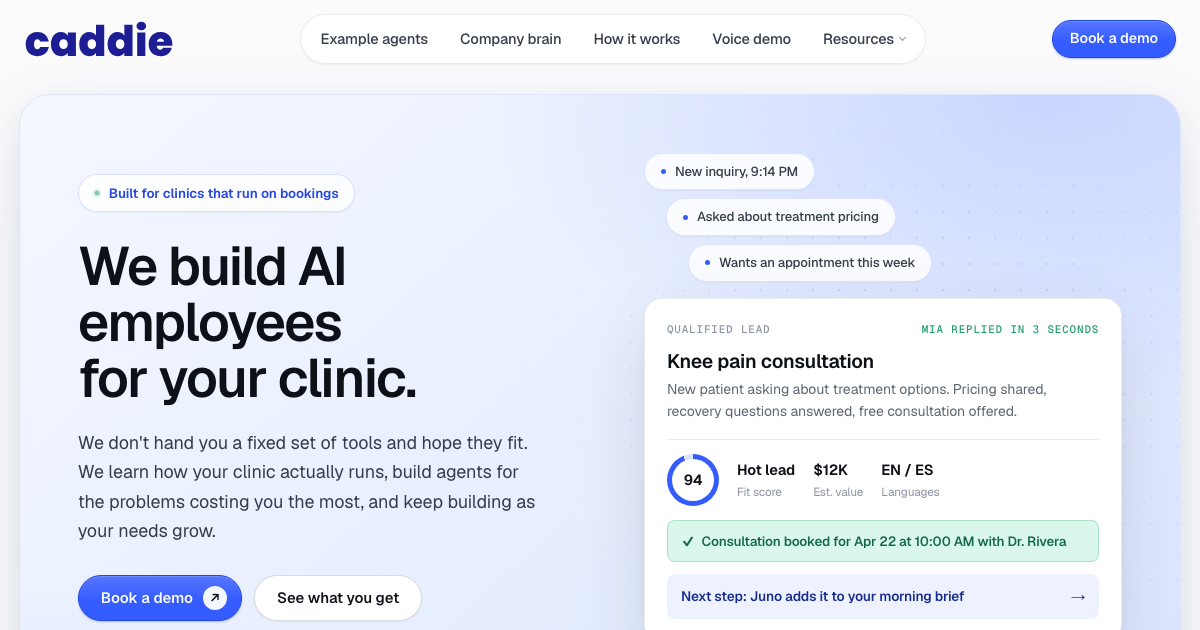
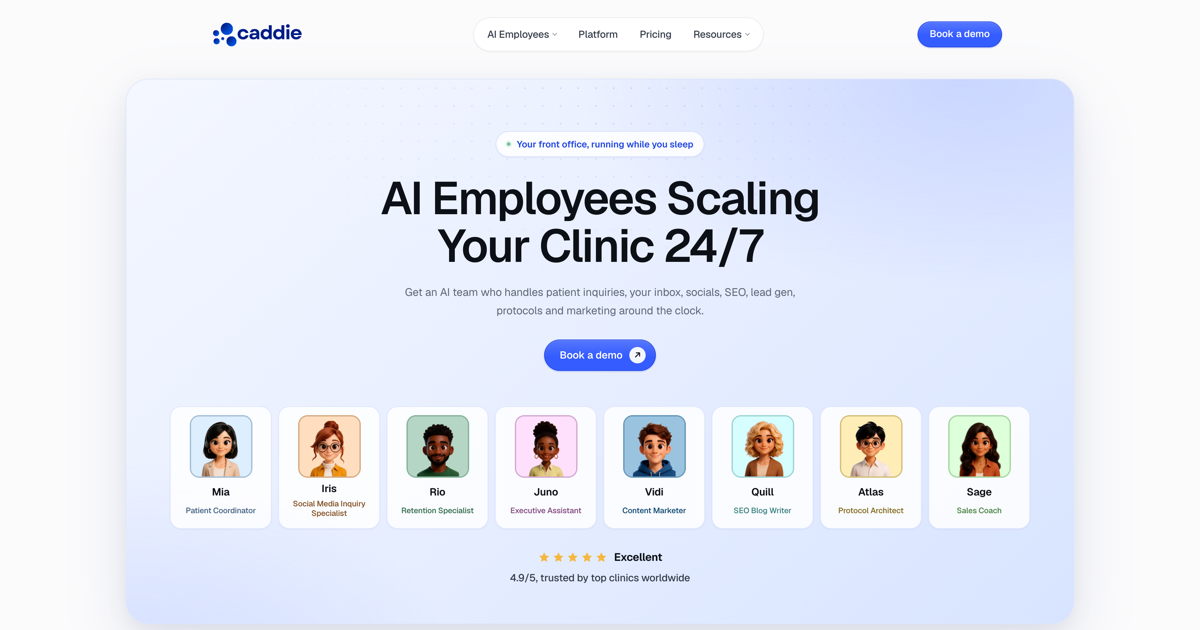
Refresh the social share card and fix its metadata
- Recapture opengraph-image.png and twitter-image.png from the current
  homepage hero; the old pair still showed the pre-relaunch landing page.
  Captured wide and downscaled to 1200x630 so the whole hero (employee
  lineup and rating) fits, with the chat widget and dev overlay hidden.
- Set metadataBase. Without it Next resolved the image against localhost,
  so shared links rendered with no preview image at all.
- Declare openGraph and twitter metadata explicitly (title, description,
  url, site name, summary_large_image) rather than leaving crawlers to
  infer them.

diff --git a/app/layout.tsx b/app/layout.tsx
@@ -27,10 +27,29 @@ const geistMono = Geist_Mono({
   variable: "--font-geist-mono",
 });
 
+const SITE_URL = "https://caddie.app";
+const TITLE = "Caddie | AI Employees Scaling Your Clinic 24/7";
+const DESCRIPTION =
+  "Caddie is an agentic CRM and operating system for clinics, with a team of AI employees built in that runs your front office around the clock.";
+
 export const metadata: Metadata = {
-  title: "Caddie | AI Employees Scaling Your Clinic 24/7",
-  description:
-    "Caddie is an agentic CRM and operating system for clinics, with a team of AI employees built in that runs your front office around the clock.",
+  // Without metadataBase, Next resolves the social preview image against
+  // localhost, so shared links render with no image at all.
+  metadataBase: new URL(SITE_URL),
+  title: TITLE,
+  description: DESCRIPTION,
+  openGraph: {
+    type: "website",
+    url: SITE_URL,
+    siteName: "Caddie",
+    title: TITLE,
+    description: DESCRIPTION,
+  },
+  twitter: {
+    card: "summary_large_image",
+    title: TITLE,
+    description: DESCRIPTION,
+  },
   icons: {
     icon: [
       { url: "/favicon.ico", sizes: "48x48" },
